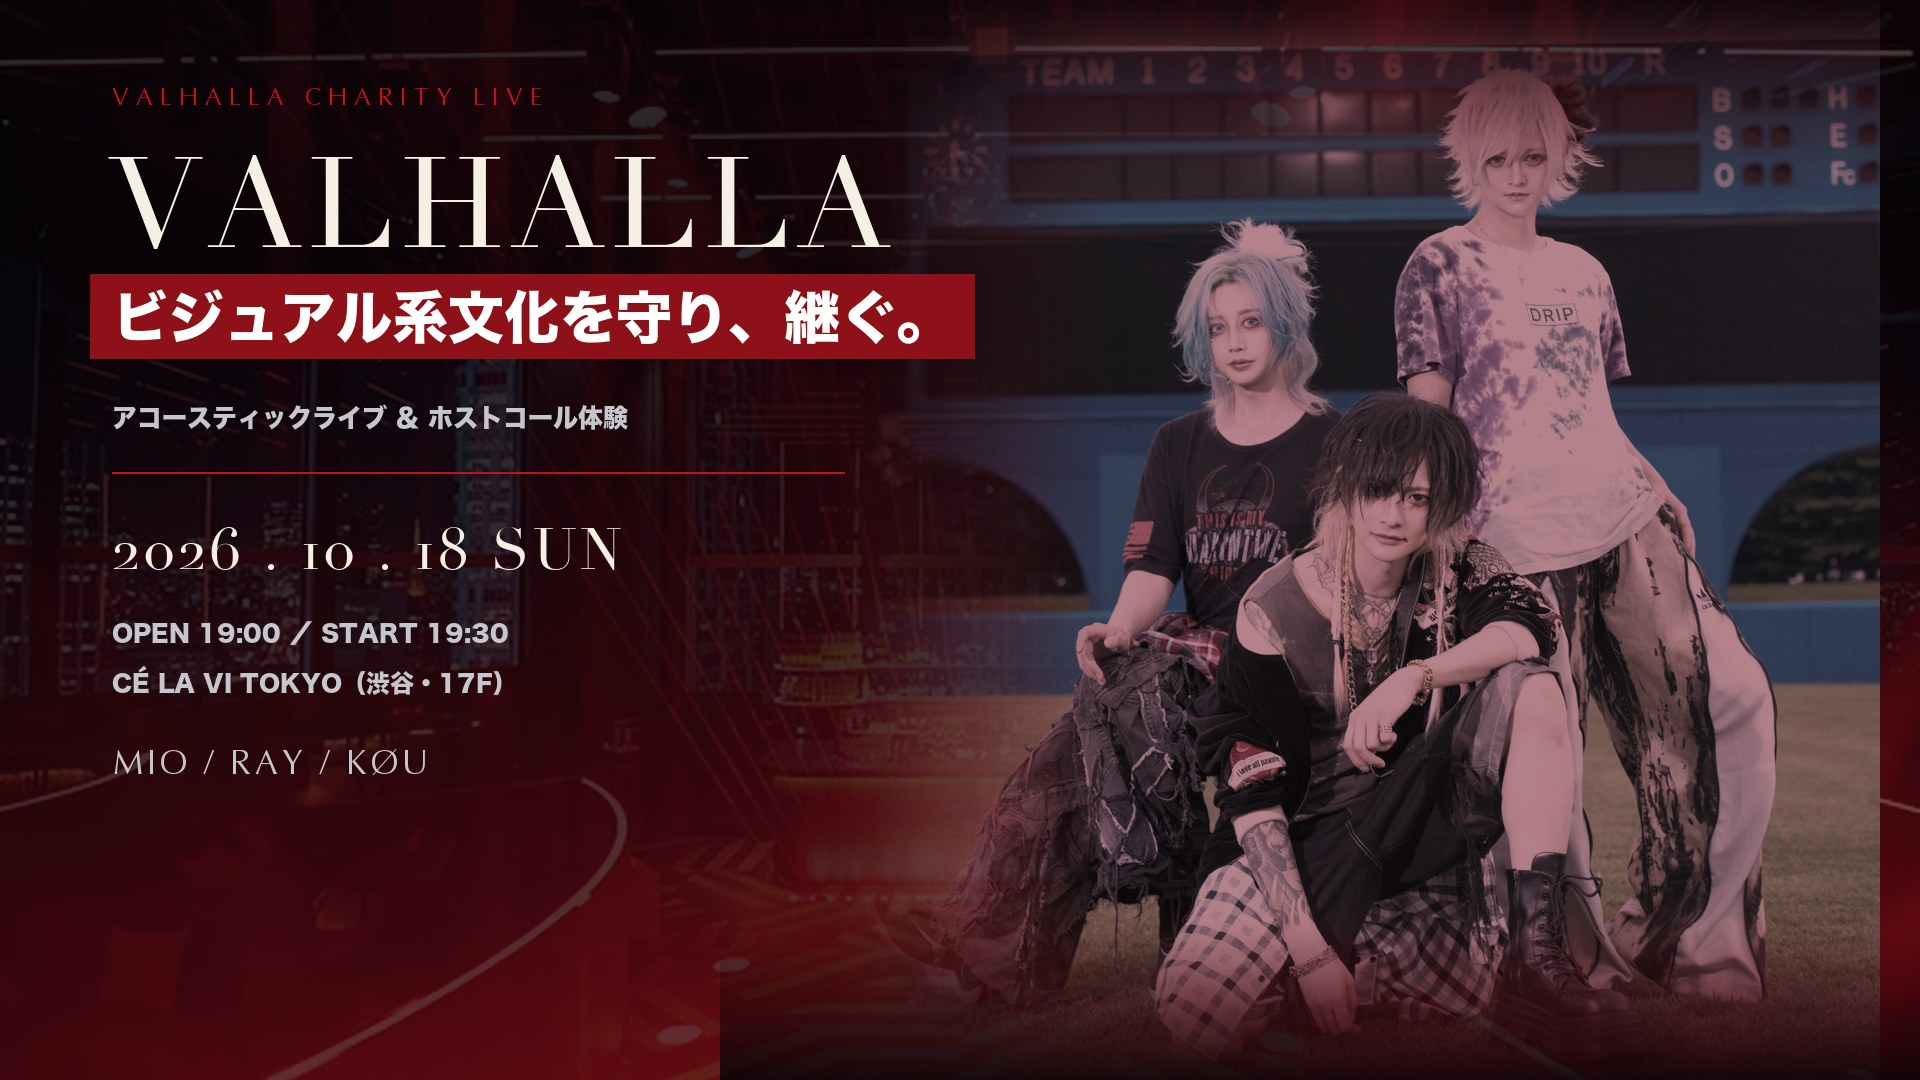
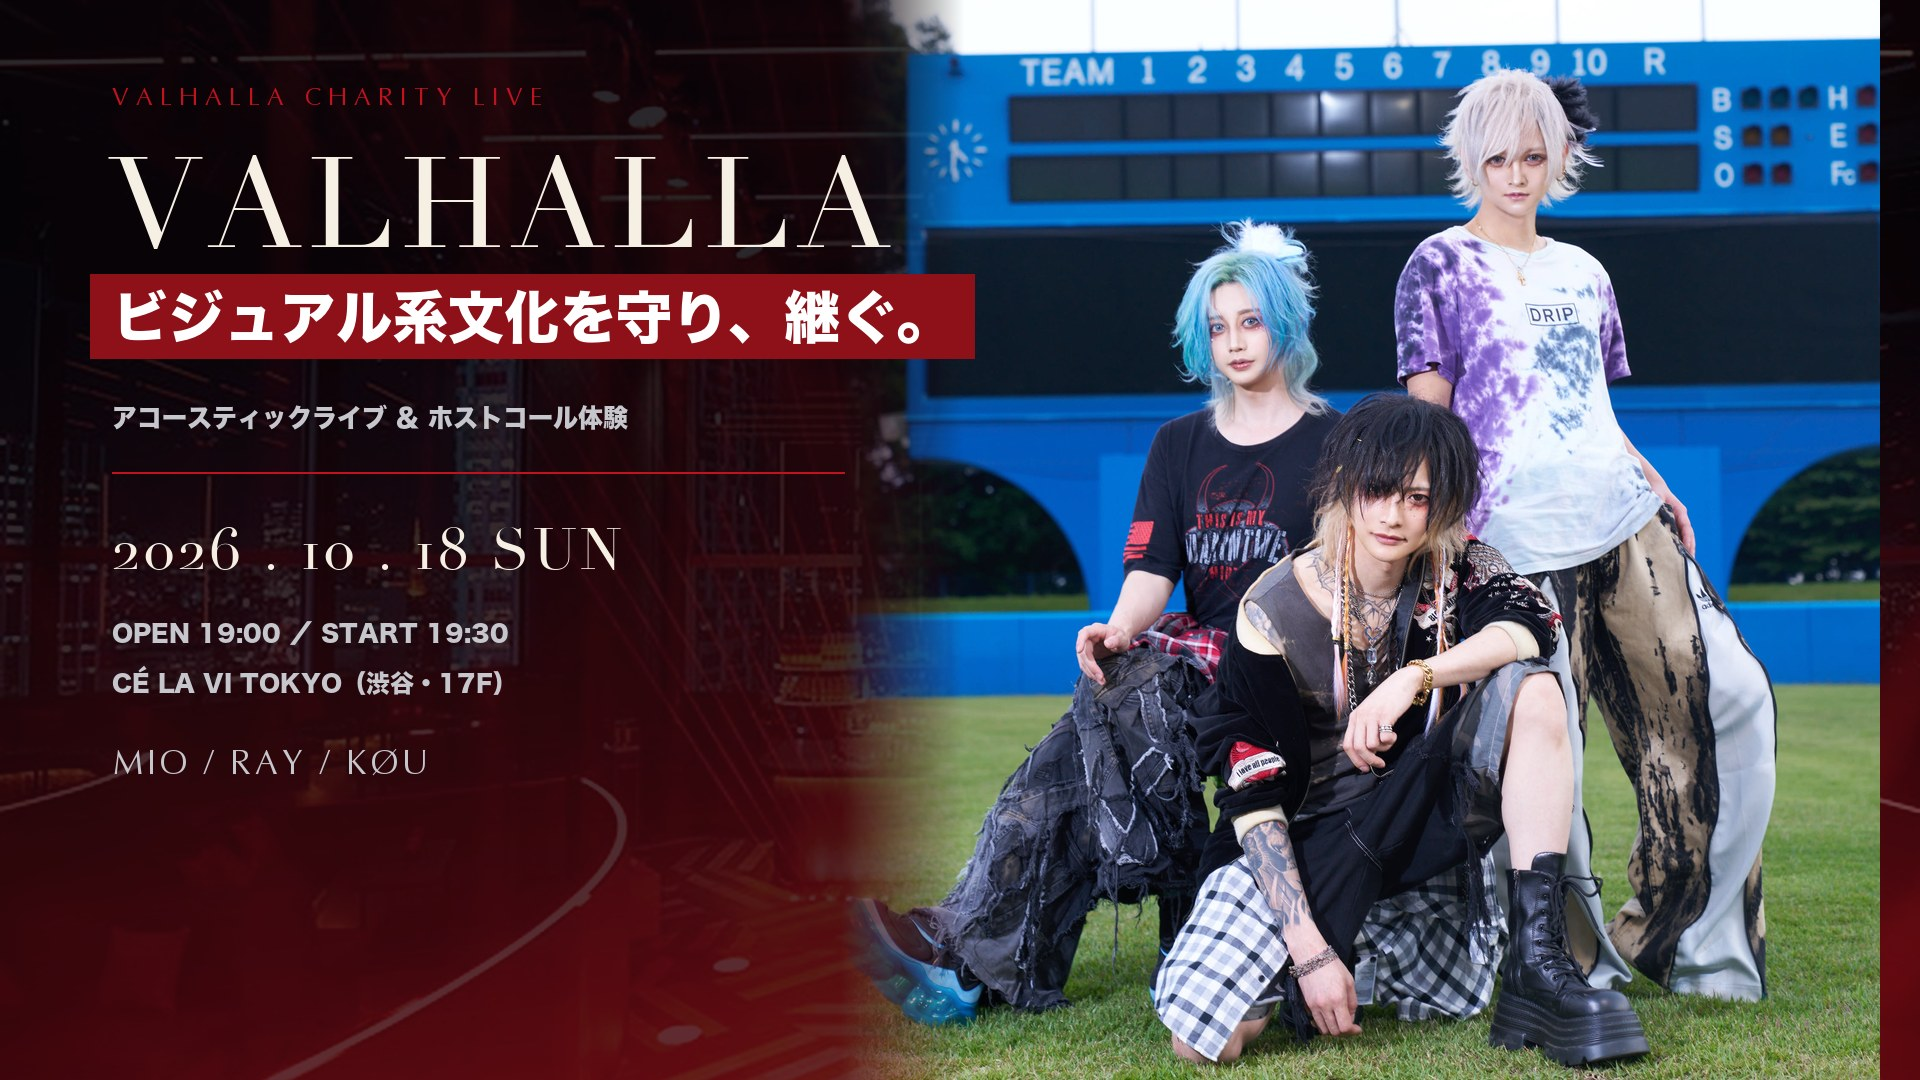
charity: use the members photo untouched in the main visual
kazuma指示により人物写真の加工を全廃(乗算グレード/彩度落とし/明度
ガンマ/テクスチャ重ね/グロー/ビネット)。元のgroup_field.jpgの色そのまま。
左端の狭いアルファフェードのみ残して境目を溶かす。
左側の背景(クリムゾン＋celavi透過)と文字は変更なし。

diff --git a/assets/charity/create_flyer_wide.py b/assets/charity/create_flyer_wide.py
@@ -2,8 +2,7 @@
 """Create the 16:9 CAMPFIRE hero image from the existing vertical flyer."""
 
 from pathlib import Path
-from PIL import Image, ImageDraw, ImageFont, ImageFilter, ImageEnhance, ImageChops
-import math
+from PIL import Image, ImageDraw, ImageFont, ImageEnhance, ImageChops
 import os
 
 
@@ -137,70 +136,24 @@ def add_people(base: Image.Image) -> None:
     portrait = src.crop((0, 916, 2443, 3664))
     target_w, target_h = 1040, 1170
     portrait = portrait.resize((target_w, target_h), Image.Resampling.LANCZOS)
-    portrait = portrait.filter(ImageFilter.GaussianBlur(0.25))
-    # Lift the photograph before grading, with a gentle gamma curve focused on
-    # the midtones so faces, hair, and dark clothing read without clipping the
-    # white wardrobe or other highlights.
-    portrait = ImageEnhance.Brightness(portrait).enhance(1.12)
-    gamma = 0.88
-    portrait = portrait.point(
-        [round(255 * ((value / 255) ** gamma)) for value in range(256)] * 3
-    )
 
-    # Apply one uniform multiply-style grade to the whole photograph.  The
-    # source's saturated blue and purple are first pulled toward neutral; a
-    # lighter crimson multiplier then preserves face/hair detail and keeps the
-    # blue background from collapsing into dirty black.
-    neutral = ImageEnhance.Color(portrait).enhance(0.38)
-    neutral = ImageEnhance.Contrast(neutral).enhance(0.94)
-    crimson_multiply = ImageChops.multiply(
-        neutral, Image.new("RGB", portrait.size, (184, 128, 136))
-    )
-    portrait = Image.blend(crimson_multiply, neutral, 0.08)
-    portrait = ImageEnhance.Contrast(portrait).enhance(0.98)
-
-    # Photograph enters softly from the left and dissolves into black at the bottom.
-    mask = Image.new("L", portrait.size, 0)
+    # Preserve the source photograph exactly as-is apart from resizing. Only
+    # its left edge dissolves into the text-side background.
+    mask = Image.new("L", portrait.size, 255)
     m = mask.load()
-    for y in range(portrait.height):
-        ty = y / max(1, portrait.height - 1)
-        if ty < 0.20:
-            vertical = 0.5 - 0.5 * math.cos(math.pi * ty / 0.20)
-        elif ty < 0.78:
-            vertical = 1.0
-        else:
-            u = (ty - 0.78) / 0.22
-            vertical = 0.5 * (1.0 + math.cos(math.pi * min(1.0, u)))
-        for x in range(portrait.width):
-            tx = x / max(1, portrait.width - 1)
-            horizontal = min(1.0, max(0.0, (tx - 0.01) / 0.24))
-            m[x, y] = round(255 * vertical * horizontal)
-    mask = mask.filter(ImageFilter.GaussianBlur(20))
+    fade_width = round(portrait.width * 0.12)
+    for x in range(fade_width):
+        alpha = round(255 * x / max(1, fade_width - 1))
+        for y in range(portrait.height):
+            m[x, y] = alpha
 
-    # Subtle crimson rim behind the portrait separates dark hair and wardrobe.
-    glow_mask = mask.filter(ImageFilter.GaussianBlur(34)).point(lambda v: round(v * 0.22))
-    glow = Image.new("RGB", (W, H), CRIMSON)
-    full_glow_mask = Image.new("L", (W, H), 0)
     photo_pos = (840, -20)
-    full_glow_mask.paste(glow_mask, photo_pos)
-    base.paste(glow, (0, 0), full_glow_mask)
-
     layer = Image.new("RGB", (W, H), (0, 0, 0))
     alpha = Image.new("L", (W, H), 0)
     pos = photo_pos
     layer.paste(portrait, pos)
     alpha.paste(mask, pos)
     base.paste(layer, (0, 0), alpha)
-
-    # Reinforce only the final 15% of the lower dissolve.
-    veil = Image.new("RGBA", (W, H), (0, 0, 0, 0))
-    vp = veil.load()
-    fade_start = round(H * 0.85)
-    for y in range(fade_start, H):
-        a = int(215 * ((y - fade_start) / (H - fade_start)) ** 1.35)
-        for x in range(720, W):
-            vp[x, y] = (*BLACK, a)
-    base.paste(veil, (0, 0), veil)
 
 
 def add_type(base: Image.Image) -> None:
